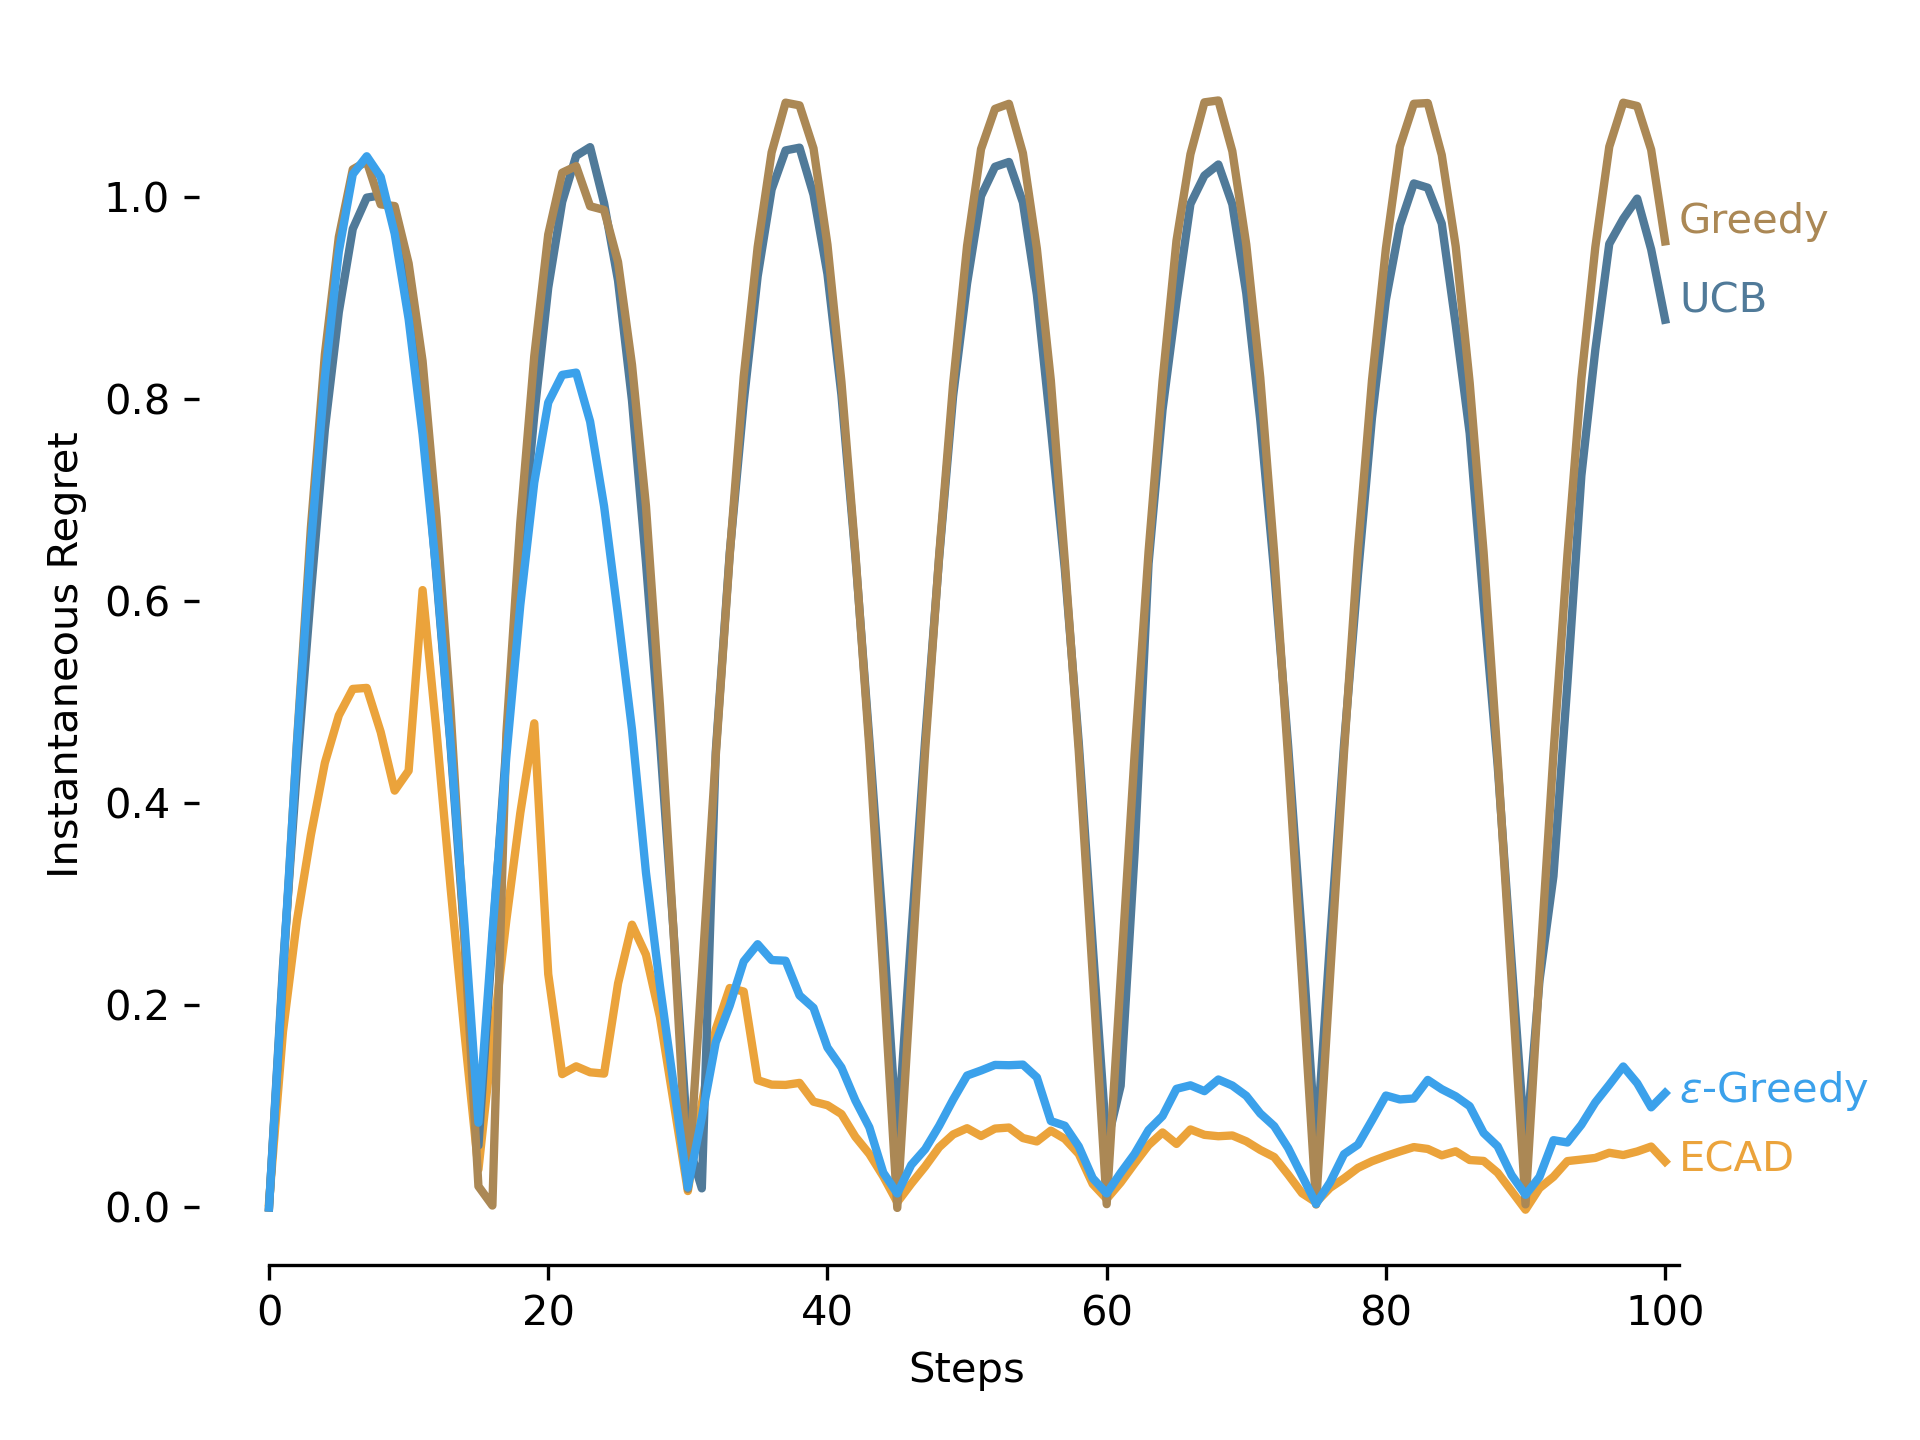
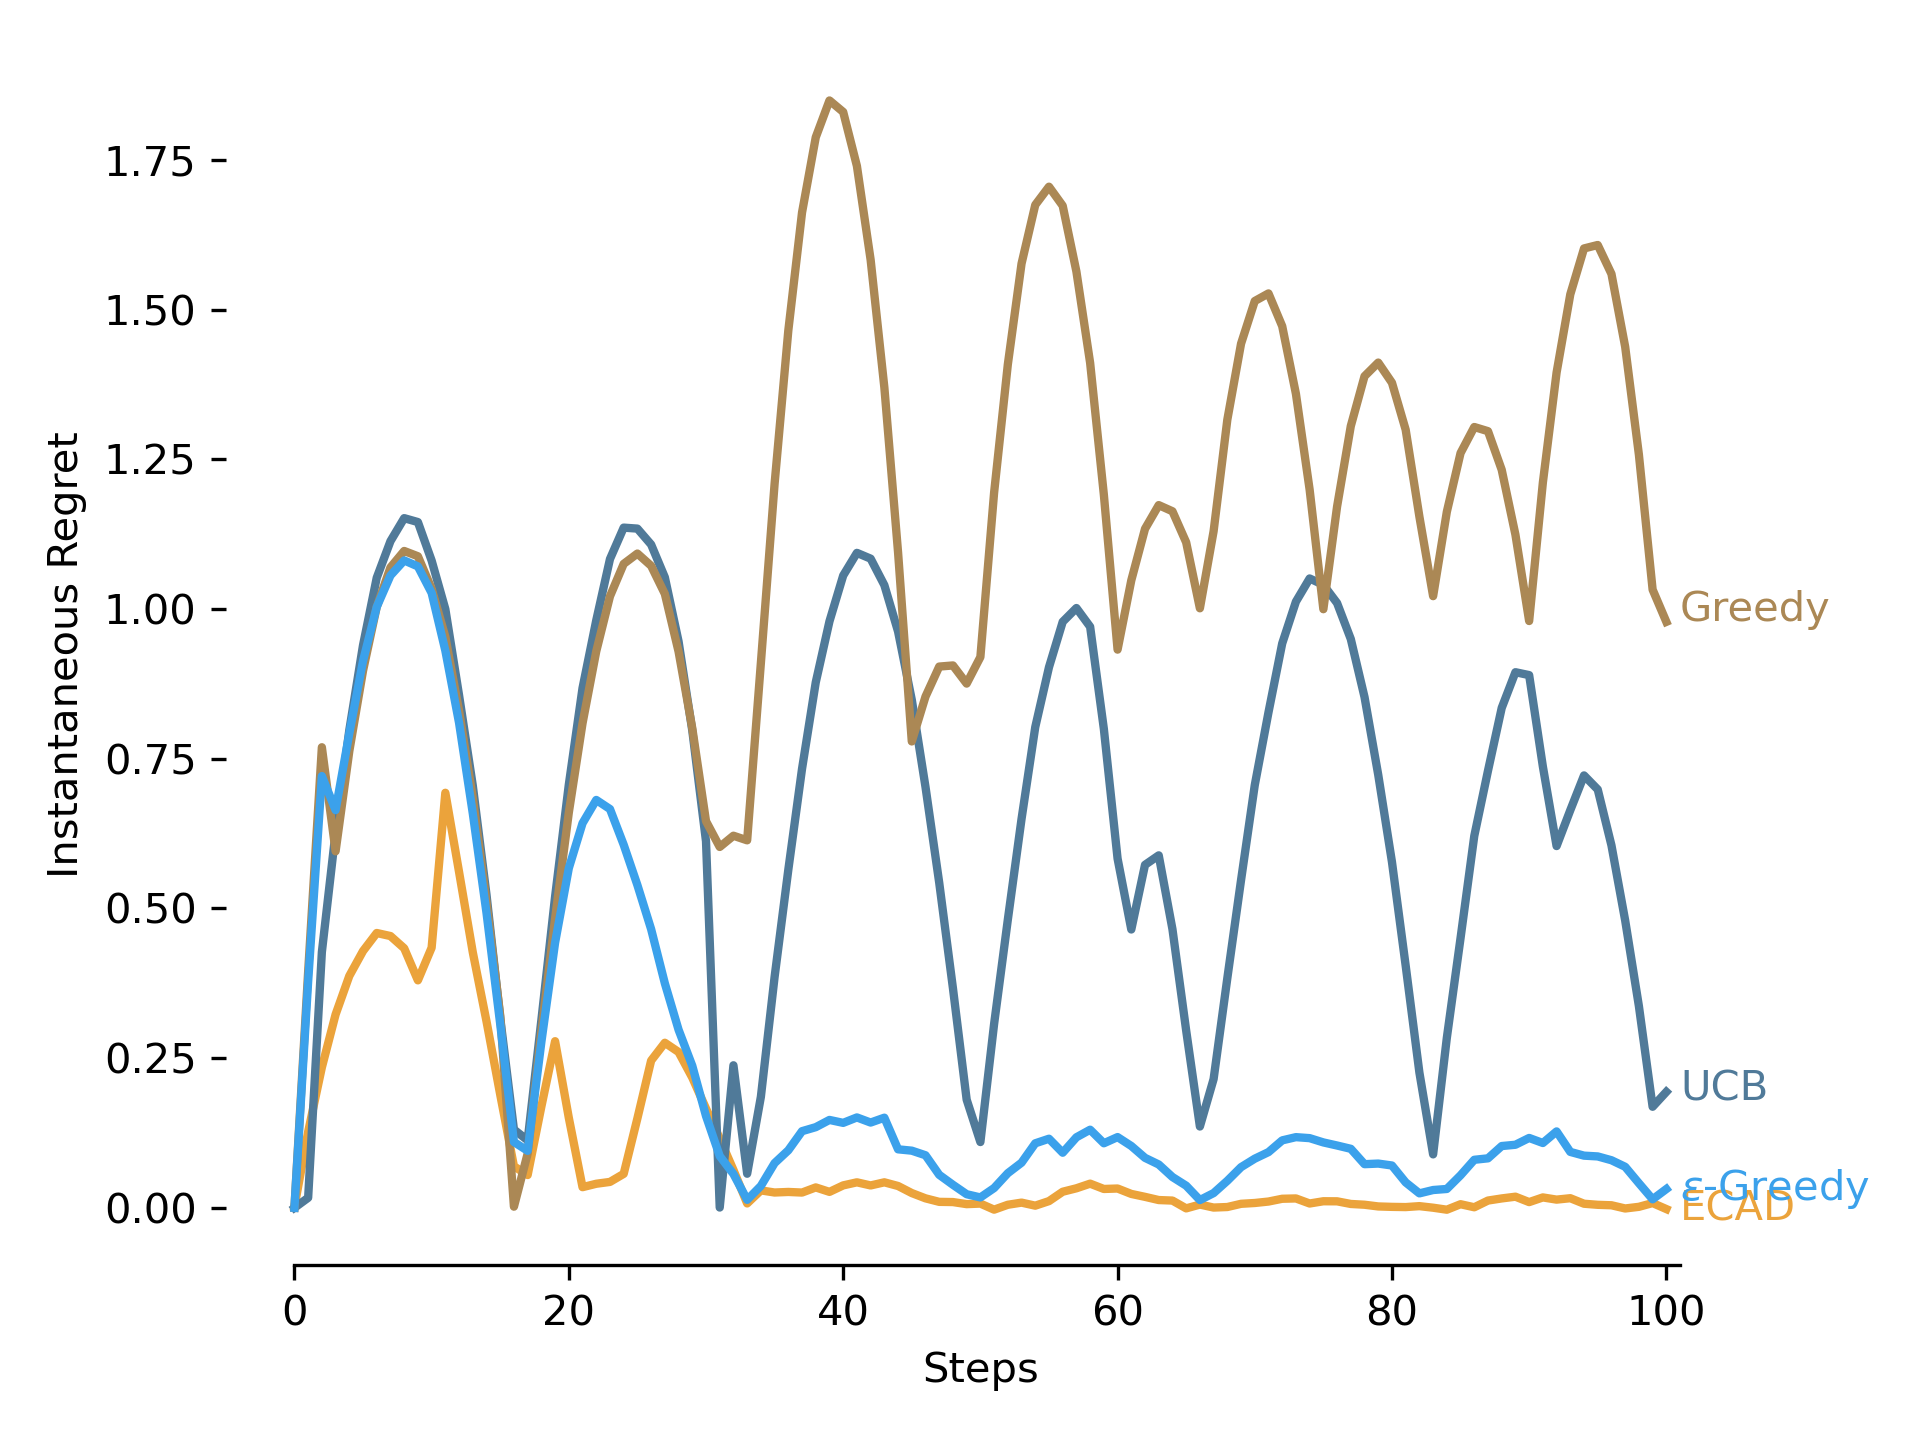
the reward function is updated

diff --git a/classes/MultiArmBandit.py b/classes/MultiArmBandit.py
@@ -37,46 +37,46 @@ class MultiArmBandit:
             if self.optimalArm in fraudArms:
                 fraudArms = np.delete(fraudArms, np.where(fraudArms == self.optimalArm))
             if (index_arm == self.optimalArm) and (optimalAlgPulling):
-                r_t = amplitude * np.sin((2 * np.pi / T) * t + phase_shift)
+                r_t = amplitude * np.sin(2 * np.pi * t / (T + phase_shift))
                 r_t = abs(r_t)
             elif (index_arm == self.optimalArm):
-                r_t = amplitude * np.sin((2 * np.pi / T) * t + phase_shift)
+                r_t = amplitude * np.sin(2 * np.pi * t / (T + phase_shift))
                 r_t = abs(r_t)
                 r_t += noise
             elif index_arm in fraudArms:
-                r_t = amplitude * np.sin((2 * np.pi / T) * t + phase_shift)
+                r_t = amplitude * np.sin(2 * np.pi * t / (T + phase_shift))
                 r_t = -abs(r_t)
                 r_t += noise
             elif index_arm in zeroArms:
-                r_t = 0.1 * np.sin((2 * np.pi / T) * t + phase_shift)
+                r_t = 0.1 * np.sin(2 * np.pi * t / (T + phase_shift))
                 r_t = -abs(r_t)
                 r_t += noise
         elif self.numOfTrueArms == 0 and self.numOfFrauds == 0:
             if (index_arm == self.optimalArm) and (optimalAlgPulling):
-                r_t = amplitude * np.sin((2 * np.pi / T) * t + phase_shift)
+                r_t = amplitude * np.sin(2 * np.pi * t / (T + phase_shift))
                 r_t = abs(r_t)
             elif (index_arm == self.optimalArm):
-                r_t = amplitude * np.sin((2 * np.pi / T) * t + phase_shift)
+                r_t = amplitude * np.sin(2 * np.pi * t / (T + phase_shift))
                 r_t = abs(r_t)
                 if not self.noNoise:
                     r_t += noise
             else:
-                r_t = 0.1 * np.sin((2 * np.pi / T) * t + phase_shift)
+                r_t = 0.1 * np.sin(2 * np.pi * t / (T + phase_shift))
                 r_t = abs(r_t)
                 if not self.noNoise:
                     r_t += noise
         elif self.numOfTrueArms != 0:
             trueArms = np.arange(0,self.numOfTrueArms,1)
             if (index_arm in trueArms) and (optimalAlgPulling):
-                r_t = amplitude * np.sin((2 * np.pi / T) * t + phase_shift)
+                r_t = amplitude * np.sin(2 * np.pi * t / (T + phase_shift))
                 r_t = abs(r_t)
             elif (index_arm in trueArms):
-                r_t = amplitude * np.sin((2 * np.pi / T) * t + phase_shift)
+                r_t = amplitude * np.sin(2 * np.pi * t / (T + phase_shift))
                 r_t = abs(r_t)
                 if not self.noNoise:
                     r_t += noise
             else:
-                r_t = 0.1 * np.sin((2 * np.pi / T) * t + phase_shift)
+                r_t = 0.1 * np.sin(2 * np.pi * t / (T + phase_shift))
                 r_t = -abs(r_t)
                 if not self.noNoise:
                     r_t += noise

diff --git a/main.py b/main.py
@@ -67,7 +67,7 @@ def main(part1, part2, part3, part4):
         numOfRuns = 1000
         maxSteps = 101
         optimalArm = 15
-        period = 30
+        period = 25
         experiment_runner = ExperimentRunner(num_runs=numOfRuns, max_steps=maxSteps, optimalAlgName='Optimal', figSaveDir="Fraud")
         mab = MultiArmBandit(numOfArms, period=period, optimalArm=optimalArm, numOfFrauds=0, numOfTrueArms=0)
 
@@ -259,4 +259,4 @@ def main(part1, part2, part3, part4):
         experiment_runner.plotIncreasingNumOfArmsReward(numOfArms[-1], 2*len(numOfArms), numOfArms)
         experiment_runner.plotIncreasingNumOfArmsRegret(numOfArms[-1], 2*len(numOfArms), numOfArms)
         
-main(part1=True, part2=True, part3=True, part4=True)
+main(part1=False, part2=True, part3=False, part4=False)

diff --git a/algorithms/NewConfidenceBound.py b/algorithms/NewConfidenceBound.py
@@ -63,7 +63,7 @@ class NewConfidenceBound:
         rewards = np.array(self.observed_rewards[arm])
 
         # Normalize times by the period to bring them within a single period cycle
-        normalized_times = 2 * np.pi * (times % self.period) / self.period
+        normalized_times = 2 * np.pi * times / (self.period + self.phase_shifts[arm])
         # Calculate Fourier coefficients
         # a0: Average of the rewards (DC component)
         a0 = np.mean(rewards)
